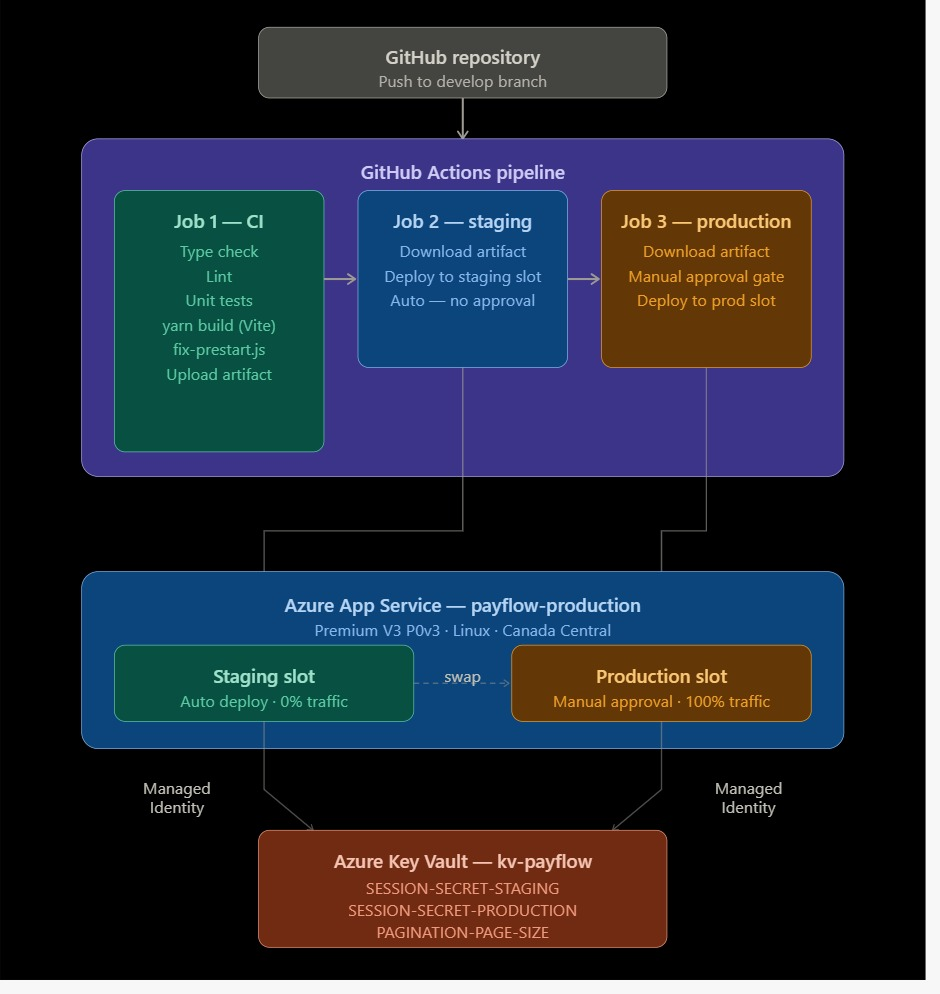
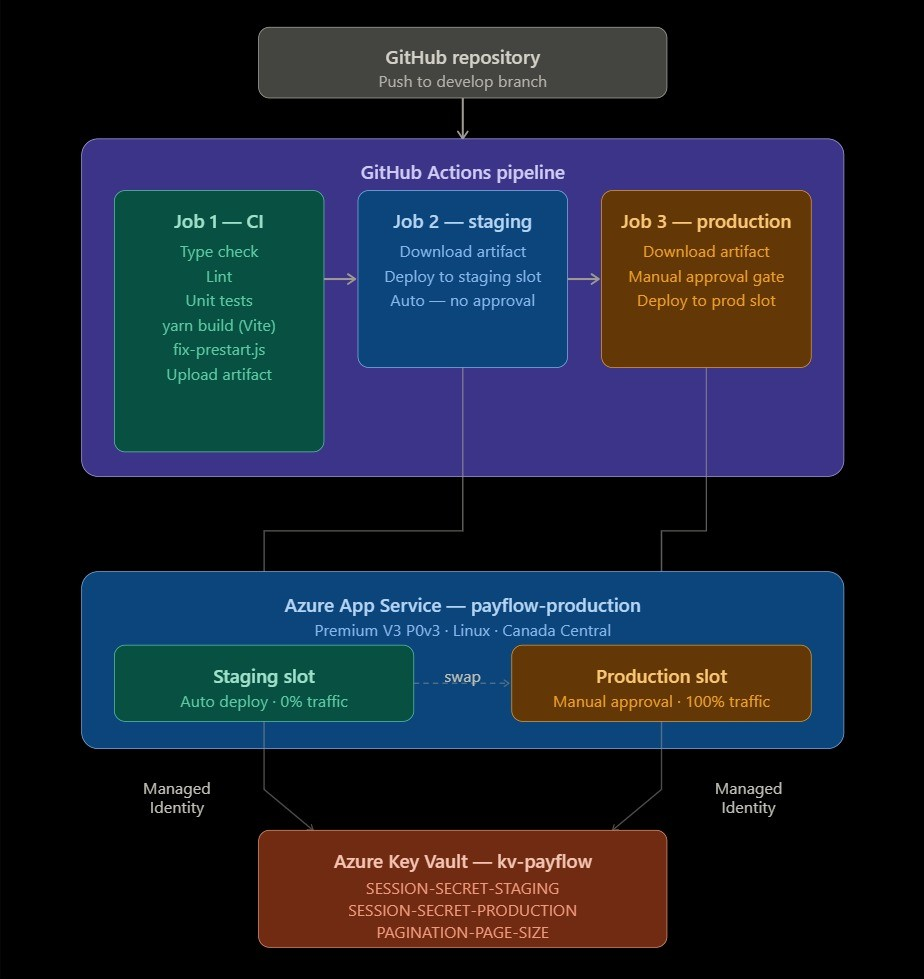
semi final deployment.md [skip ci]

diff --git a/README.md b/README.md
@@ -6,7 +6,7 @@
 
 ## 1. Architecture
 
-![Architecture](Images/Architecture.png)
+![Architecture](Images/Architecture.jpeg)
 
 ## 2. Tools Used
 
